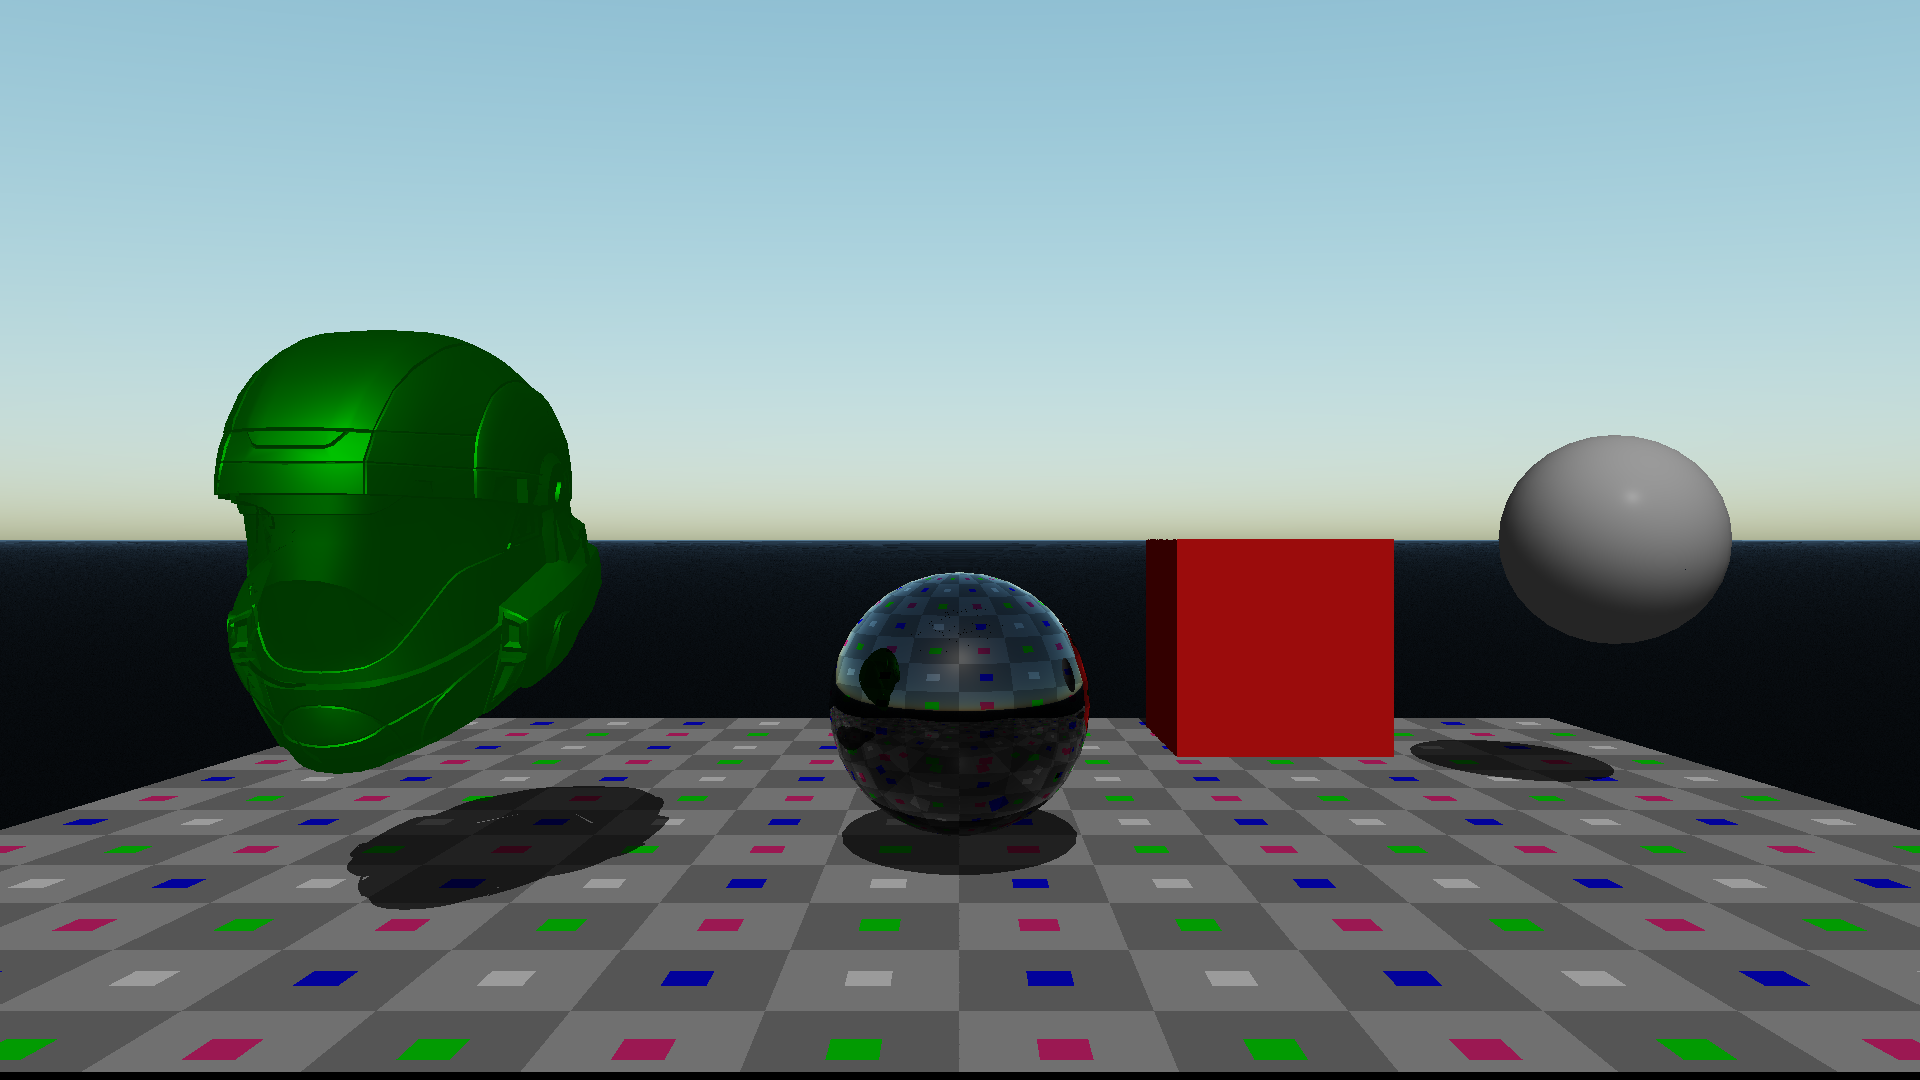
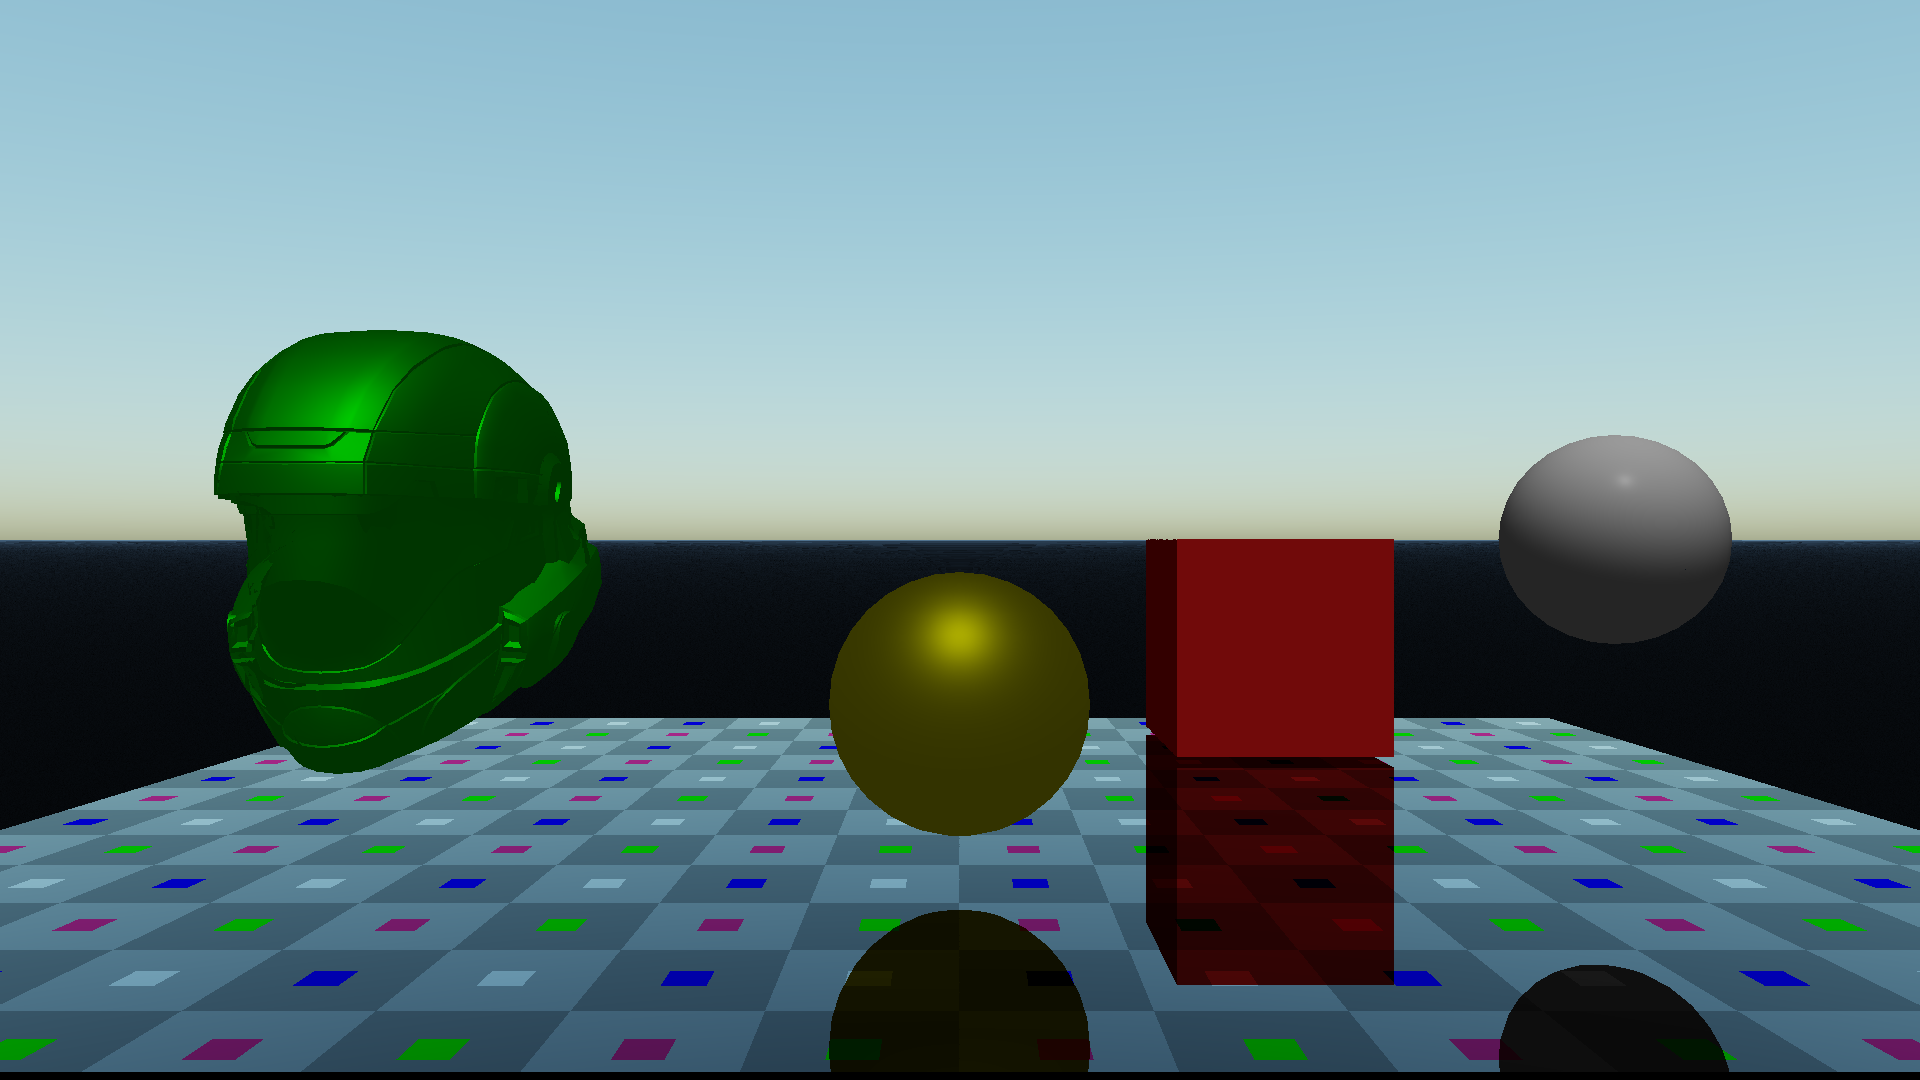
Fix refraction

diff --git a/CPU_RayTracing/AT_CPU_RayTracing/Main.cpp b/CPU_RayTracing/AT_CPU_RayTracing/Main.cpp
@@ -77,19 +77,13 @@ int main()
 
 	// Create and define an atmosphere
 	Atmosphere atmosphere;
-	float angle = Maths::deg2rad(-45.0f);
+	float angle = Maths::deg2rad(-25.0f);
 	Vector3 sunDir = Vector3(0.0f, std::cos(angle), -std::sin(angle));
 	atmosphere.setSunDirection(sunDir);
 	//atmosphere.setPlanetRadius(10000.0f);
 	//atmosphere.setAtmosphereRadius(11000.0f);
 	//atmosphere.setRayleighThickness(1000.0f);
 	//atmosphere.setMieThickness(100.0f);
-
-
-	//atmosphere.m_earthRadius = 10000.0f;
-	//atmosphere.m_atmosphereRadius = 11000.0f;
-	//atmosphere.m_hr = 1000.0f;
-	//atmosphere.m_hm = 100.0f;
 
 	// https://stackoverflow.com/questions/13078243/how-to-move-a-camera-using-in-a-ray-tracer
 	// Define the scene camera
@@ -139,18 +133,18 @@ int main()
 	cone.setPosition({ 0.0f, 0.0f, -10.0f });
 
 	Material::Data cone_material;
-	cone_material.type		= Material::Types::Reflective;  // Reflective
+	cone_material.type		= Material::Types::Dielectic;  // Reflective
 	cone_material.albedo	= Colour(1.0f, 1.0f, 0.0f);
-	cone_material.roughness = 0.3f;
-	cone_material.metallic	= 0.0f;
+	cone_material.roughness = 0.5f;
+	cone_material.metallic	= 1.0f;
 	cone.setMaterial(cone_material);
-	cone.setAlbedoTexture("Assets\\Checker.png");
+	//cone.setAlbedoTexture("Assets\\Checker.png");
 
 	Primitive plane("Assets\\plane.obj", { 0.0f, 0.0f, 0.0f });
 	plane.setPosition({ 0.0f, -1.0f, -10.0f });
 
 	Material::Data plane_material;
-	plane_material.type			= Material::Types::Dielectic; // Reflective
+	plane_material.type			= Material::Types::Reflective; // Reflective
 	plane_material.albedo		= Colour(0.5f, 0.5f, 0.5f);
 	plane_material.roughness	= 0.3f;
 	plane_material.metallic		= 0.0f;

diff --git a/CPU_RayTracing/AT_CPU_RayTracing/ShaderMaths.h b/CPU_RayTracing/AT_CPU_RayTracing/ShaderMaths.h
@@ -108,15 +108,23 @@ namespace Shaders
 			// https://asawicki.info/news_1301_reflect_and_refract_functions.html
 			//float NdotI = Vector3::dot(n, i);
 			//float k = 1.0f - ior * ior * (1.0f - NdotI * NdotI);
-			//return k < 0.1f ? Vector3(0.0f, 0.0f, 0.0f) : ior * i - (ior * NdotI + std::sqrtf(k)) * n;
+			//return k < 0.0f ? Vector3() : ior * i - (ior * NdotI + std::sqrtf(k)) * n;
 
-			float cosi = std::clamp(Vector3::dot(i, n), -1.0f, 1.0f);
-			float etai = 1.0f, etat = ior;
-			Vector3 N = n;
-			if (cosi < 0.0f) { cosi = -cosi; }
-			float eta = etai / etat;
-			float k = 1.0f - eta * eta * (1.0f - cosi * cosi);
-			return k < 0.0f ? Vector3() : eta * i + (eta * cosi - std::sqrtf(k) * N);
+			//float cosi = std::clamp(Vector3::dot(i, n), -1.0f, 1.0f);
+			//float etai = 1.0f, etat = ior;
+			//Vector3 N = n;
+
+			//if (cosi < 0.0f) { cosi = -cosi; }
+			//else { std::swap(etai, etat); N = -n; }
+
+			//float eta = etai / etat;
+			//float k = 1.0f - eta * eta * (1.0f - cosi * cosi);
+			//return k < 0.0f ? Vector3() : eta * i + (eta * cosi - std::sqrtf(k) * N);
+				
+			// https://stackoverflow.com/questions/42218704/how-to-properly-handle-refraction-in-raytracing
+			ior = 2.0f - ior;
+			float cosi = Vector3::dot(n, i);
+			return (i * ior - n * (-cosi + ior * cosi));
 		}
 
 		inline float saturate(float x) { return max(0.0f, min(1.0f, x)); }

diff --git a/CPU_RayTracing/AT_CPU_RayTracing/Camera.cpp b/CPU_RayTracing/AT_CPU_RayTracing/Camera.cpp
@@ -158,19 +158,19 @@ Colour Camera::castRay(Raycast::Ray& ray, BVH::Builder& bvh, std::vector<std::un
 				reflectionRay.setOrigin(reflectionOrigin);
 				reflectionRay.setDirection(reflectionDir);
 
-				Vector3 refractiveDir = normalize(refract(ray.getDirection(), normal, 1.52f));
+				Vector3 refractiveDir = normalize(refract(ray.getDirection(), normal, 1.33f));
 				Vector3 refractiveOrigin = (dot(refractiveDir, normal) < 0.0f) ? hitpoint - normal * 0.1f : hitpoint + normal * 0.1f;
-				
-				float kr = 0.0f;
-				Shaders::Functions::fresnel(ray.getDirection(), normal, 1.52f, kr);
 
 				Raycast::Ray refractiveRay;
 				refractiveRay.setOrigin(refractiveOrigin);
 				refractiveRay.setDirection(refractiveDir);
 
+				float kr = 0.0f;
+				Shaders::Functions::fresnel(ray.getDirection(), normal, 1.33f, kr);
+
 				Colour refractColour = castRay(refractiveRay, bvh, sceneLights, atmosphere, depth + 1);
 				Colour reflectColour = castRay(reflectionRay, bvh, sceneLights, atmosphere, depth + 1);
-				hitColour = reflectColour * kr + refractColour * (1.0f - kr);
+				hitColour = /*reflectColour * kr + */refractColour /** (1.0f - kr)*/;
 			}
 			break;
 
